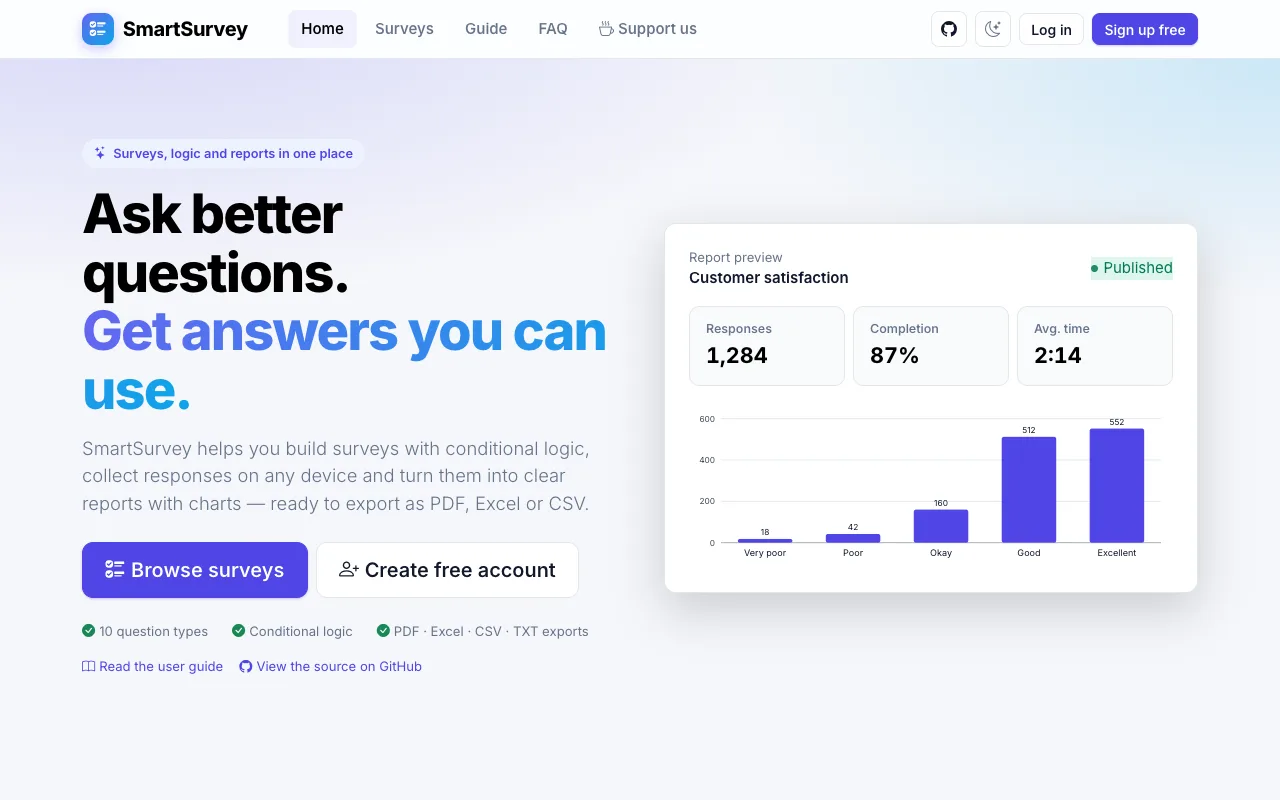
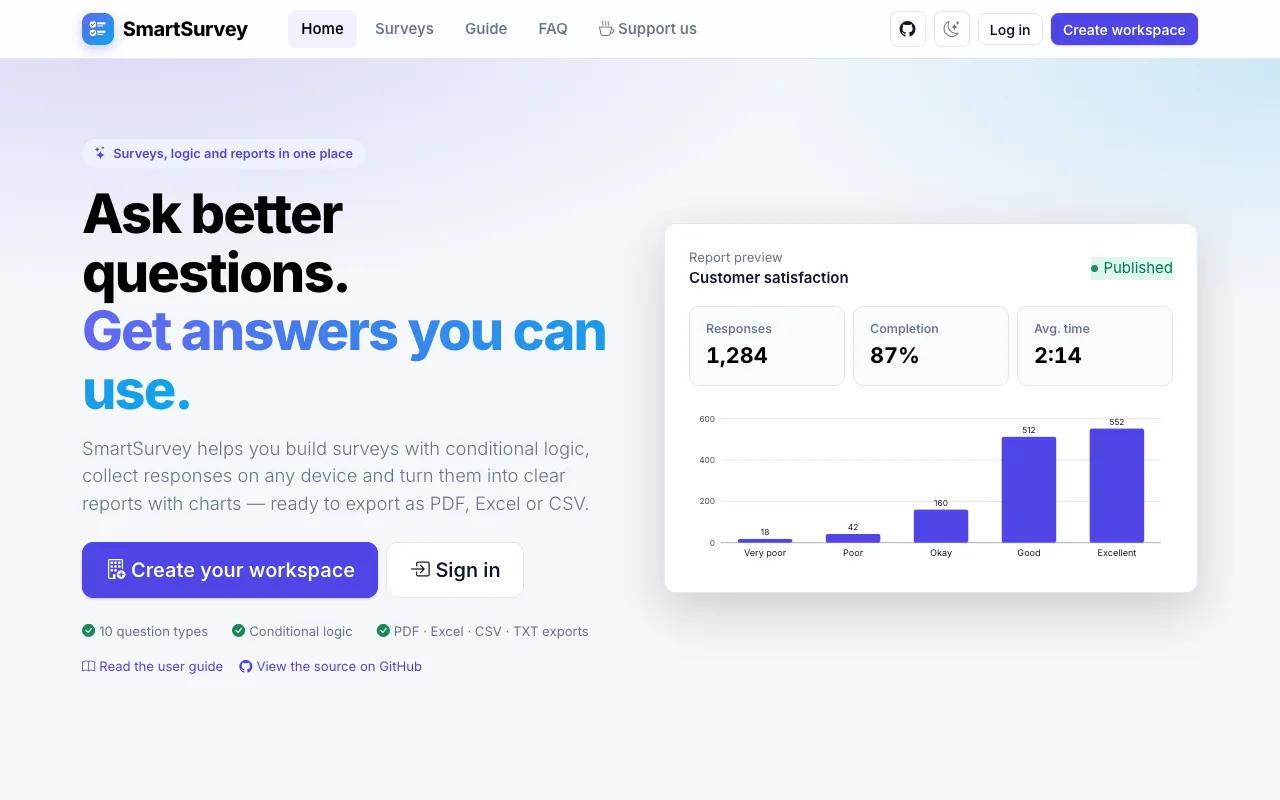
Phase 16 (wip): reproducible screenshot script; all guide screenshots recaptured

Changed region(s): [[0.0625, 0.6562, 0.4375, 0.75], [0.6875, 0.0, 0.9375, 0.0625]]

diff --git a/scripts/browser/screenshots.js b/scripts/browser/screenshots.js
@@ -1,0 +1,146 @@
+// Reproducible capture of the user-guide / README screenshots (src/SmartSurvey.Web/wwwroot/img/guide).
+//
+// Run against a FRESH instance with demo data (it adds a pending workspace and saves workspace settings), e.g.:
+//   cd src/SmartSurvey.Web && ASPNETCORE_ENVIRONMENT=Development Database__Provider=Sqlite \
+//     ConnectionStrings__DefaultConnection="Data Source=/tmp/shots.db" Seed__DemoData=true \
+//     Seed__AdminPassword='Admin123!' Seed__SuperAdminPassword='SuperAdmin123!' Https__Redirect=false \
+//     App__PublicBaseUrl=https://surveys.example.com dotnet run --urls http://localhost:5230
+//   cd scripts/browser && npm install && npm run screenshots      # OUT=… to write elsewhere (review first!)
+// Desktop images are 1280×800, the phone image 390×844 at 2× (780×1688), all WebP.
+const puppeteer = require('puppeteer-core');
+const path = require('path');
+const BASE = process.env.BASE || 'http://localhost:5230';
+const OUT = process.env.OUT || path.join(__dirname, '../../src/SmartSurvey.Web/wwwroot/img/guide');
+const CHROME = process.env.CHROME_PATH || '/Applications/Google Chrome.app/Contents/MacOS/Google Chrome';
+const SURVEY_SLUG = 'customer-satisfaction-survey';
+const sleep = ms => new Promise(r => setTimeout(r, ms));
+
+async function api(route, method = 'GET', body, token) {
+  const r = await fetch(BASE + route, {
+    method,
+    headers: { 'Content-Type': 'application/json', ...(token ? { Authorization: `Bearer ${token}` } : {}) },
+    body: body ? JSON.stringify(body) : undefined,
+  });
+  if (!r.ok) throw new Error(`${method} ${route}: ${r.status} ${await r.text()}`);
+  return r.status === 204 ? null : r.json();
+}
+const token = async (email, password) => (await api('/api/auth/login', 'POST', { email, password })).accessToken;
+
+async function newPage(browser, viewport = { width: 1280, height: 800, deviceScaleFactor: 1 }) {
+  const context = await browser.createBrowserContext();
+  const page = await context.newPage();
+  page.setDefaultTimeout(20000);
+  await page.setViewport(viewport);
+  return page;
+}
+const go = async (page, route) => { await page.goto(BASE + route, { waitUntil: 'networkidle0' }); await sleep(1500); };
+async function login(page, email, password) {
+  await go(page, '/Account/Login');
+  await page.type('#login-email', email);
+  await page.type('#login-password', password);
+  await Promise.all([page.waitForNavigation({ waitUntil: 'networkidle0' }), page.click('button[type=submit]')]);
+}
+async function shot(page, name) {
+  await sleep(700);
+  await page.screenshot({ path: path.join(OUT, `${name}.webp`), type: 'webp', quality: 82 });
+  console.log('saved', name);
+}
+// Interactive (Blazor Server) pages ignore input until their circuit is connected: repeat until the page reacts.
+async function until(action, reacted, what) {
+  for (let attempt = 0; attempt < 8; attempt++) {
+    await action();
+    await sleep(600);
+    if (await reacted()) return;
+    await sleep(900);
+  }
+  throw new Error(`no reaction: ${what}`);
+}
+const clickText = (page, selector, text) => page.$$eval(selector, (els, text) => {
+  const el = els.find(e => e.textContent.includes(text));
+  if (el) el.click();
+  return !!el;
+}, text);
+const exists = (page, selector) => page.$(selector).then(Boolean);
+
+(async () => {
+  // Data the pictures need: a workspace waiting for approval (System overview).
+  const superToken = await token('superadmin@smartsurvey.local', 'SuperAdmin123!');
+  await api('/api/v1/system/settings', 'PUT', { allowWorkspaceSignup: true, requireWorkspaceApproval: true, provideStarterTemplates: true, supportEmail: 'support@example.com' }, superToken);
+  await api('/api/v1/public/workspaces', 'POST', { workspaceName: 'City Book Club', displayName: 'Robin', email: 'robin@example.com', password: 'BookClub123!' })
+    .catch(e => { if (!String(e.message).includes(': 409')) throw e; }); // already there on a second run
+  await api('/api/v1/system/settings', 'PUT', { allowWorkspaceSignup: true, requireWorkspaceApproval: false, provideStarterTemplates: true, supportEmail: 'support@example.com' }, superToken);
+  const adminToken = await token('admin@smartsurvey.local', 'Admin123!');
+  const survey = (await api(`/api/v1/surveys?search=${SURVEY_SLUG}`, 'GET', null, adminToken)).items.find(s => s.slug === SURVEY_SLUG);
+  const report = (await api(`/api/v1/reports?surveyId=${survey.id}`, 'GET', null, adminToken)).items[0];
+
+  const browser = await puppeteer.launch({ executablePath: CHROME, headless: true, args: ['--no-sandbox', '--hide-scrollbars'] });
+  try {
+    // ----- public pages
+    const guest = await newPage(browser);
+    await go(guest, '/'); await shot(guest, 'home');
+    await go(guest, '/guide'); await shot(guest, 'guide');
+    await go(guest, `/s/${SURVEY_SLUG}`);
+    await until(() => clickText(guest, '.choice-item', 'Manager'), () => exists(guest, '.choice-item.selected'), 'choose an answer');
+    await guest.evaluate(() => window.scrollTo(0, 0));
+    await shot(guest, 'survey');
+
+    const phone = await newPage(browser, { width: 390, height: 844, deviceScaleFactor: 2, isMobile: true, hasTouch: true });
+    await go(phone, `/s/${SURVEY_SLUG}`);
+    await until(() => clickText(phone, '.choice-item', 'Manager'), () => exists(phone, '.choice-item.selected'), 'choose an answer (phone)');
+    await phone.evaluate(() => {
+      // Progress bar, page title and the first question with its chosen answer.
+      const question = document.querySelector('.question-card');
+      window.scrollTo(0, question.getBoundingClientRect().top + window.scrollY - 300);
+    });
+    await shot(phone, 'survey-mobile');
+
+    // ----- workspace admin
+    const admin = await newPage(browser);
+    await login(admin, 'admin@smartsurvey.local', 'Admin123!');
+    await go(admin, '/admin/settings');
+    await until(async () => { await admin.$eval('#ws-description', e => { e.value = ''; }); await admin.type('#ws-description', 'Customer and employee surveys of the demo company.'); },
+      () => admin.$$eval('button', bs => bs.some(b => b.textContent.includes('Save changes'))), 'edit workspace settings');
+    await admin.type('#ws-contact', 'surveys@example.com');
+    await clickText(admin, 'button', 'Save changes');
+    await sleep(6000); // let the toast fade
+    await go(admin, '/admin/settings'); await shot(admin, 'workspace-settings');
+    await go(admin, '/admin'); await shot(admin, 'dashboard');
+    await admin.evaluate(() => localStorage.setItem('ss-theme', 'dark'));
+    await go(admin, '/admin'); await shot(admin, 'dashboard-dark');
+    await admin.evaluate(() => localStorage.setItem('ss-theme', 'light'));
+    await go(admin, '/admin/surveys'); await shot(admin, 'survey-list');
+
+    await go(admin, `/admin/surveys/${survey.id}/edit`); await shot(admin, 'builder');
+    await until(() => clickText(admin, '.qe-header', 'What could we improve?'),
+      () => admin.$$eval('.question-editor.active', els => els.some(e => e.textContent.includes('What could we improve?'))), 'open a question');
+    await admin.evaluate(() => {
+      const editor = [...document.querySelectorAll('.question-editor.active')].find(e => e.textContent.includes('What could we improve?'));
+      const logic = [...editor.querySelectorAll('details')].find(d => d.textContent.includes('Display logic'));
+      logic.open = true;
+      logic.scrollIntoView({ block: 'center' });
+    });
+    await shot(admin, 'builder-logic');
+
+    await go(admin, `/admin/surveys/${survey.id}/edit`);
+    await until(() => clickText(admin, '.nav-link, button, a', 'Settings'), () => admin.$$eval('h2', hs => hs.some(h => h.textContent.includes('Basics'))), 'open the Settings tab');
+    await admin.evaluate(() => window.scrollTo(0, 0));
+    await shot(admin, 'survey-settings');
+
+    await go(admin, `/admin/surveys/${survey.id}/preview`);
+    await until(() => clickText(admin, 'button', 'Phone'), () => exists(admin, '.preview-phone'), 'phone preview');
+    await shot(admin, 'preview');
+    await go(admin, `/admin/surveys/${survey.id}/share`); await shot(admin, 'share');
+    await go(admin, `/admin/surveys/${survey.id}/responses`); await shot(admin, 'responses');
+    await go(admin, `/admin/reports/${report.id}`); await shot(admin, 'report');
+    await go(admin, `/admin/reports/${report.id}/edit`); await sleep(1500); await shot(admin, 'report-builder');
+    await go(admin, '/admin/users'); await shot(admin, 'users');
+
+    // ----- super admin
+    const sup = await newPage(browser);
+    await login(sup, 'superadmin@smartsurvey.local', 'SuperAdmin123!');
+    await go(sup, '/system'); await shot(sup, 'system-overview');
+    await go(sup, '/system/branding'); await shot(sup, 'branding');
+  } finally {
+    await browser.close();
+  }
+})().catch(e => { console.error(e); process.exit(1); });

diff --git a/DEVELOPMENT_PLAN.md b/DEVELOPMENT_PLAN.md
@@ -559,9 +559,9 @@ As § 10.0 (resume from the last § 11.3 row, `[~]` markers, commit per task, ph
 - [x] 15.5 Docs + Phase gate
 
 #### Phase 16 — Guide screenshots
-- [ ] 16.1 `scripts/browser/screenshots.js`: reproducible capture of every guide image from a fresh demo instance
-- [ ] 16.2 Recapture, review every image, replace; README gallery
-- [ ] 16.3 Phase gate
+- [x] 16.1 `scripts/browser/screenshots.js`: reproducible capture of every guide image from a fresh demo instance
+- [x] 16.2 Recapture, review every image, replace; README gallery
+- [~] 16.3 Phase gate
 
 #### Phase 17 — .NET 10 LTS
 - [ ] 17.1 SDK 10.0.300 (installed) in `global.json`, `net10.0`, Microsoft/EF/Npgsql 10.x, other packages checked for .NET 10, `dotnet-ef` 10
